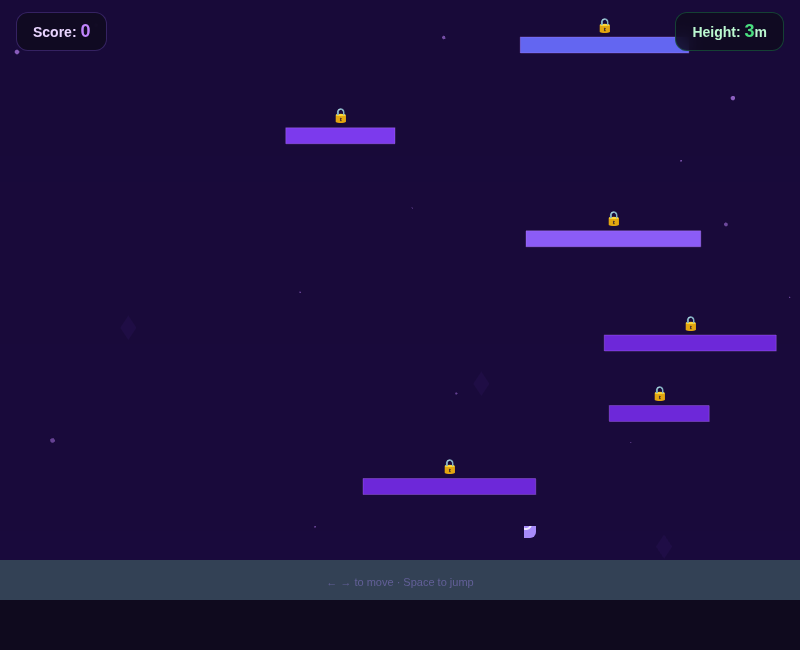
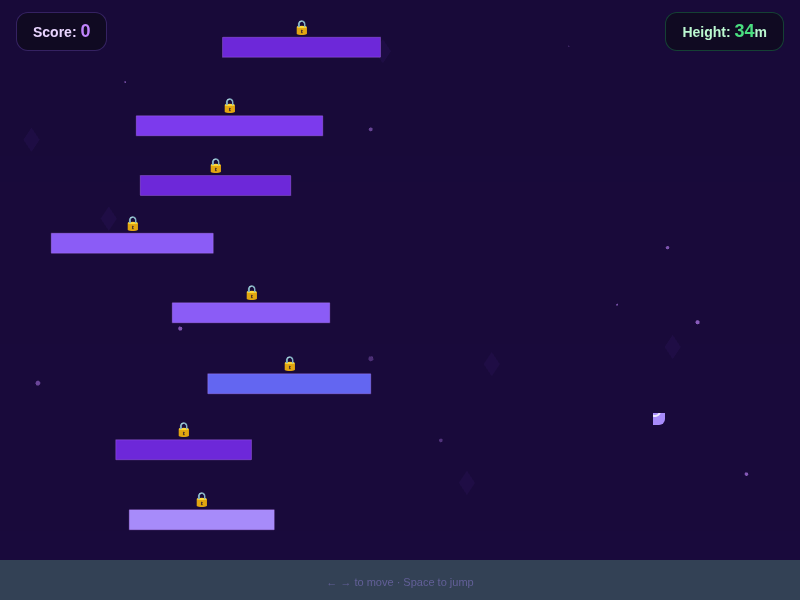
fix: Number Climber physics — was literally impossible, now plays smoothly
THE PROBLEM (mathematically proven):
  World gravity: 600 px/s²
  Player extra gravity: +300 px/s² (setGravityY)
  TOTAL gravity: 900 px/s²
  Jump velocity: -420 px/s
  Max jump height: v²/(2g) = 420²/1800 = 98 px
  Platform gap range: 70-110 px
  RESULT: 98px jump vs 110px gap = PHYSICALLY IMPOSSIBLE

  Also: bounce of 0.15 caused touching.down to flicker,
  making the jump button unreliable (delayed jumps).
  Also: platforms could spawn anywhere horizontally,
  making some unreachable even with perfect jumps.

THE FIX:
  World gravity: 600 → 400 px/s²
  Extra gravity: 300 → 0 (removed)
  Total gravity: 900 → 400 px/s²
  Jump velocity: -420 → -480 px/s
  Max jump height: 480²/800 = 288 px (was 98)
  Platform gap: 70-110 → 55-80 px
  Clearance: 288-80 = 208px margin (was -12px)

  Bounce: 0.15 → 0 (eliminates jump flicker)
  Horizontal speed: 240 → 300 px/s
  Air time: 0.93s → 2.4s (more time to aim)
  Horizontal reach: 224px → 672px

ADDITIONAL FIXES:
  - Coyote time: 8-frame grace period after leaving a platform
    edge. Player can jump slightly after walking off, preventing
    the frustrating 'I pressed jump but nothing happened' feel.

  - One-way platforms: disabled bottom/left/right collision.
    Player can jump THROUGH platforms from below, only landing
    on top. Classic platformer feel — no more bonking your head.

  - Platform drift limit: max 250px horizontal distance between
    consecutive platforms. No more impossible cross-screen jumps.
[…]

diff --git a/learnlattice-v2/static/games/number-climber.html b/learnlattice-v2/static/games/number-climber.html
@@ -345,10 +345,10 @@ var GameScene = new Phaser.Class({
     this.physics.add.existing(ground, true);
     platforms.add(ground);
 
-    // Initial platforms
+    // Initial platforms — close together for easy start
     lastPlatformY = GAME_H - 20;
     platformList = [];
-    for (var i = 0; i < 8; i++) {
+    for (var i = 0; i < 10; i++) {
       createPlatform(self);
     }
 
@@ -374,18 +374,18 @@ var GameScene = new Phaser.Class({
     playerGfx.destroy();
 
     player = this.physics.add.sprite(GAME_W/2, GAME_H - 60, 'player');
-    player.setBounce(0.15);
+    player.setBounce(0);
     player.setCollideWorldBounds(false);
     player.body.setSize(24, 32);
-    player.setGravityY(300);
     player.setDepth(10);
+    this.coyoteTimer = 0; // frames since last grounded
 
     // Collision
     this.physics.add.collider(player, platforms, onLandPlatform, null, this);
 
-    // Camera
-    this.cameras.main.startFollow(player, true, 0.1, 0.1);
-    this.cameras.main.setDeadzone(GAME_W, 100);
+    // Camera — tighter vertical follow so player stays centered
+    this.cameras.main.startFollow(player, true, 0.1, 0.15);
+    this.cameras.main.setDeadzone(GAME_W, 60);
     this.cameras.main.setBounds(0, -10000, GAME_W, 10600);
 
     // World bounds (only left/right, not top/bottom)
@@ -428,7 +428,7 @@ var GameScene = new Phaser.Class({
     if (!gameActive) return;
 
     // Left / Right movement
-    var speed = 240;
+    var speed = 300;
     if (cursors.left.isDown || this.keyA.isDown) {
       player.setVelocityX(-speed);
       player.setFlipX(true);
@@ -436,12 +436,21 @@ var GameScene = new Phaser.Class({
       player.setVelocityX(speed);
       player.setFlipX(false);
     } else {
-      player.setVelocityX(player.body.velocity.x * 0.85);
+      player.setVelocityX(player.body.velocity.x * 0.82);
     }
 
-    // Jump
-    if ((cursors.up.isDown || cursors.space.isDown || this.keyW.isDown) && player.body.touching.down) {
-      player.setVelocityY(-420);
+    // Coyote time — allow jumping for 8 frames after leaving a platform
+    if (player.body.touching.down || player.body.blocked.down) {
+      this.coyoteTimer = 8;
+    } else if (this.coyoteTimer > 0) {
+      this.coyoteTimer--;
+    }
+
+    // Jump — uses coyote time for responsive feel
+    var jumpPressed = cursors.up.isDown || cursors.space.isDown || this.keyW.isDown;
+    if (jumpPressed && this.coyoteTimer > 0) {
+      player.setVelocityY(-480);
+      this.coyoteTimer = 0; // consume coyote time
     }
 
     // Track height
@@ -455,8 +464,9 @@ var GameScene = new Phaser.Class({
     if (player.x < -20) player.x = GAME_W + 20;
     if (player.x > GAME_W + 20) player.x = -20;
 
-    // Fall death
-    if (player.y > GAME_H + 200) {
+    // Fall death — die when falling below visible screen
+    var camBottom = this.cameras.main.scrollY + GAME_H + 100;
+    if (player.y > camBottom) {
       gameOver();
     }
 
@@ -468,21 +478,30 @@ var GameScene = new Phaser.Class({
 });
 
 function createPlatform(scene) {
-  var gap = 70 + Math.random() * 40;
+  var gap = 55 + Math.random() * 25;
   var y = lastPlatformY - gap;
-  var x = 80 + Math.random() * (GAME_W - 160);
-  var width = 100 + Math.random() * 80;
+  // Keep platforms within reachable horizontal range of each other
+  var prevX = platformList.length > 0 ? platformList[platformList.length - 1].x : GAME_W / 2;
+  var maxDrift = 250; // max horizontal distance from previous platform
+  var minX = Math.max(80, prevX - maxDrift);
+  var maxX = Math.min(GAME_W - 80, prevX + maxDrift);
+  var x = minX + Math.random() * (maxX - minX);
+  var width = 120 + Math.random() * 80;
 
   // Platform visual
   var color = [0x7c3aed, 0x6366f1, 0x8b5cf6, 0xa78bfa, 0x6d28d9][Math.floor(Math.random()*5)];
-  var platVisual = scene.add.rectangle(x, y, width, 16, color);
+  var platVisual = scene.add.rectangle(x, y, width, 20, color);
   platVisual.setStrokeStyle(1, 0xc084fc, 0.3);
 
   // Glow
-  var glow = scene.add.rectangle(x, y, width + 8, 20, color, 0.08);
+  var glow = scene.add.rectangle(x, y, width + 8, 24, color, 0.08);
   glow.setDepth(-1);
 
   scene.physics.add.existing(platVisual, true);
+  // Make platform one-way — player can jump through from below
+  platVisual.body.checkCollision.down = false;
+  platVisual.body.checkCollision.left = false;
+  platVisual.body.checkCollision.right = false;
   platforms.add(platVisual);
 
   var platData = { visual: platVisual, glow: glow, x: x, y: y, answered: false, locked: true };
@@ -649,7 +668,7 @@ window.startGame = function() {
       physics: {
         default: 'arcade',
         arcade: {
-          gravity: { y: 600 },
+          gravity: { y: 400 },
           debug: false
         }
       },
